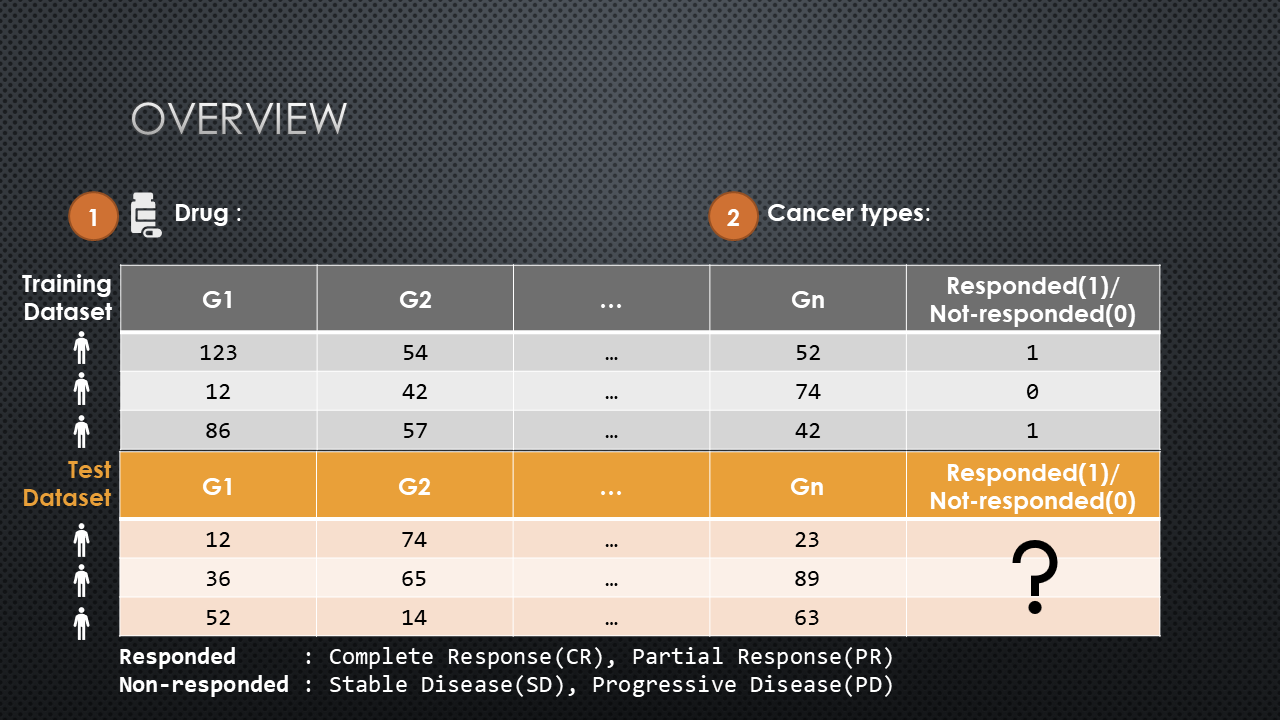
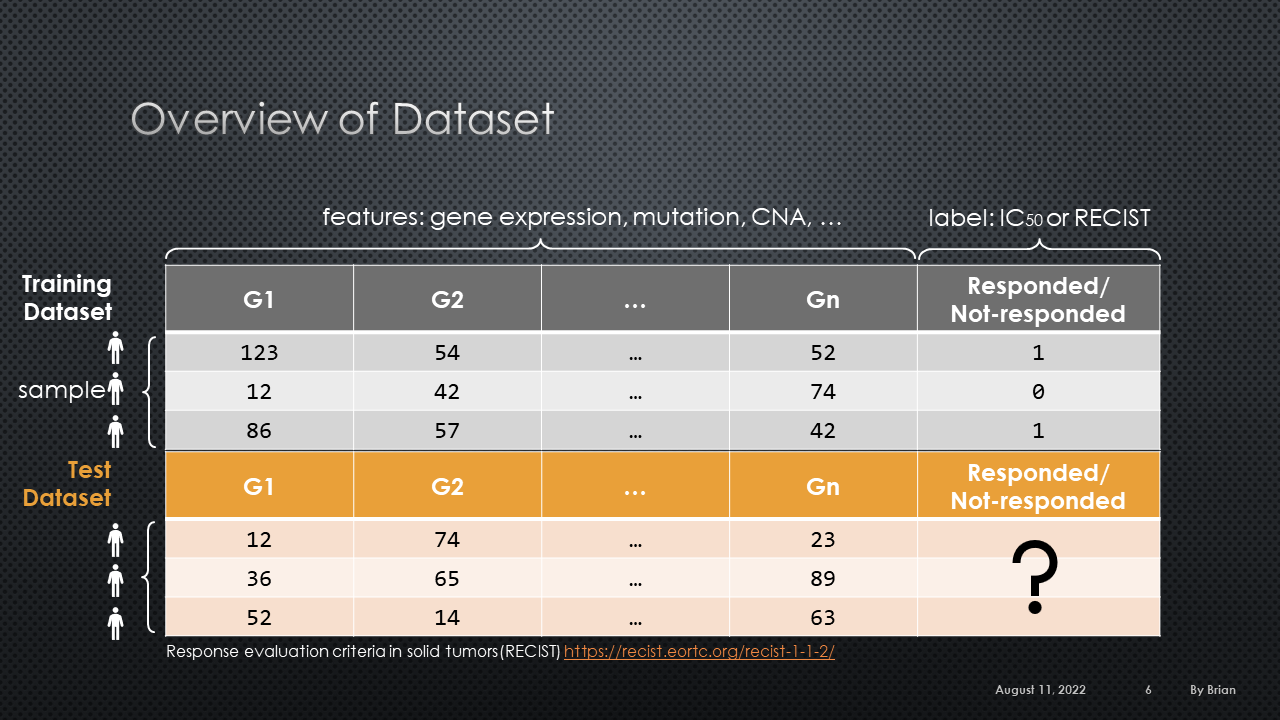
dataset

diff --git a/docs/introduction.md b/docs/introduction.md
@@ -14,9 +14,11 @@ To identify effective anti-cancer drugs for patients by examining each patient's
 
 The drug response dataset contains gene level information such as gene expression and the result of drug response (sensitive/resistant). For example, drug 1 is effective for patient 1's gene expression, but it is not effective for patient 2's gene expression. 
 
-![Dataset](/drp/assets/images/dataset.png)
+![Dataset](/drp/assets/images/method.png)
 
 We train a machine learning model with this information from cell lines, animal models, or clinical data. In other words, the machine learning model learns the association between gene level characteristics and a drug's effectiveness. Once the model has finished training, it takes a new patient's gene-level information as input and then predicts whether the given drug would be helpful for the new patient or not.
+
+![Dataset](/drp/assets/images/dataset.png)
 
 As explained above, drug response prediction is a problem of binary classification. Therefore, among various models of machine learning, any binary classifier can be applied for this research.
 
